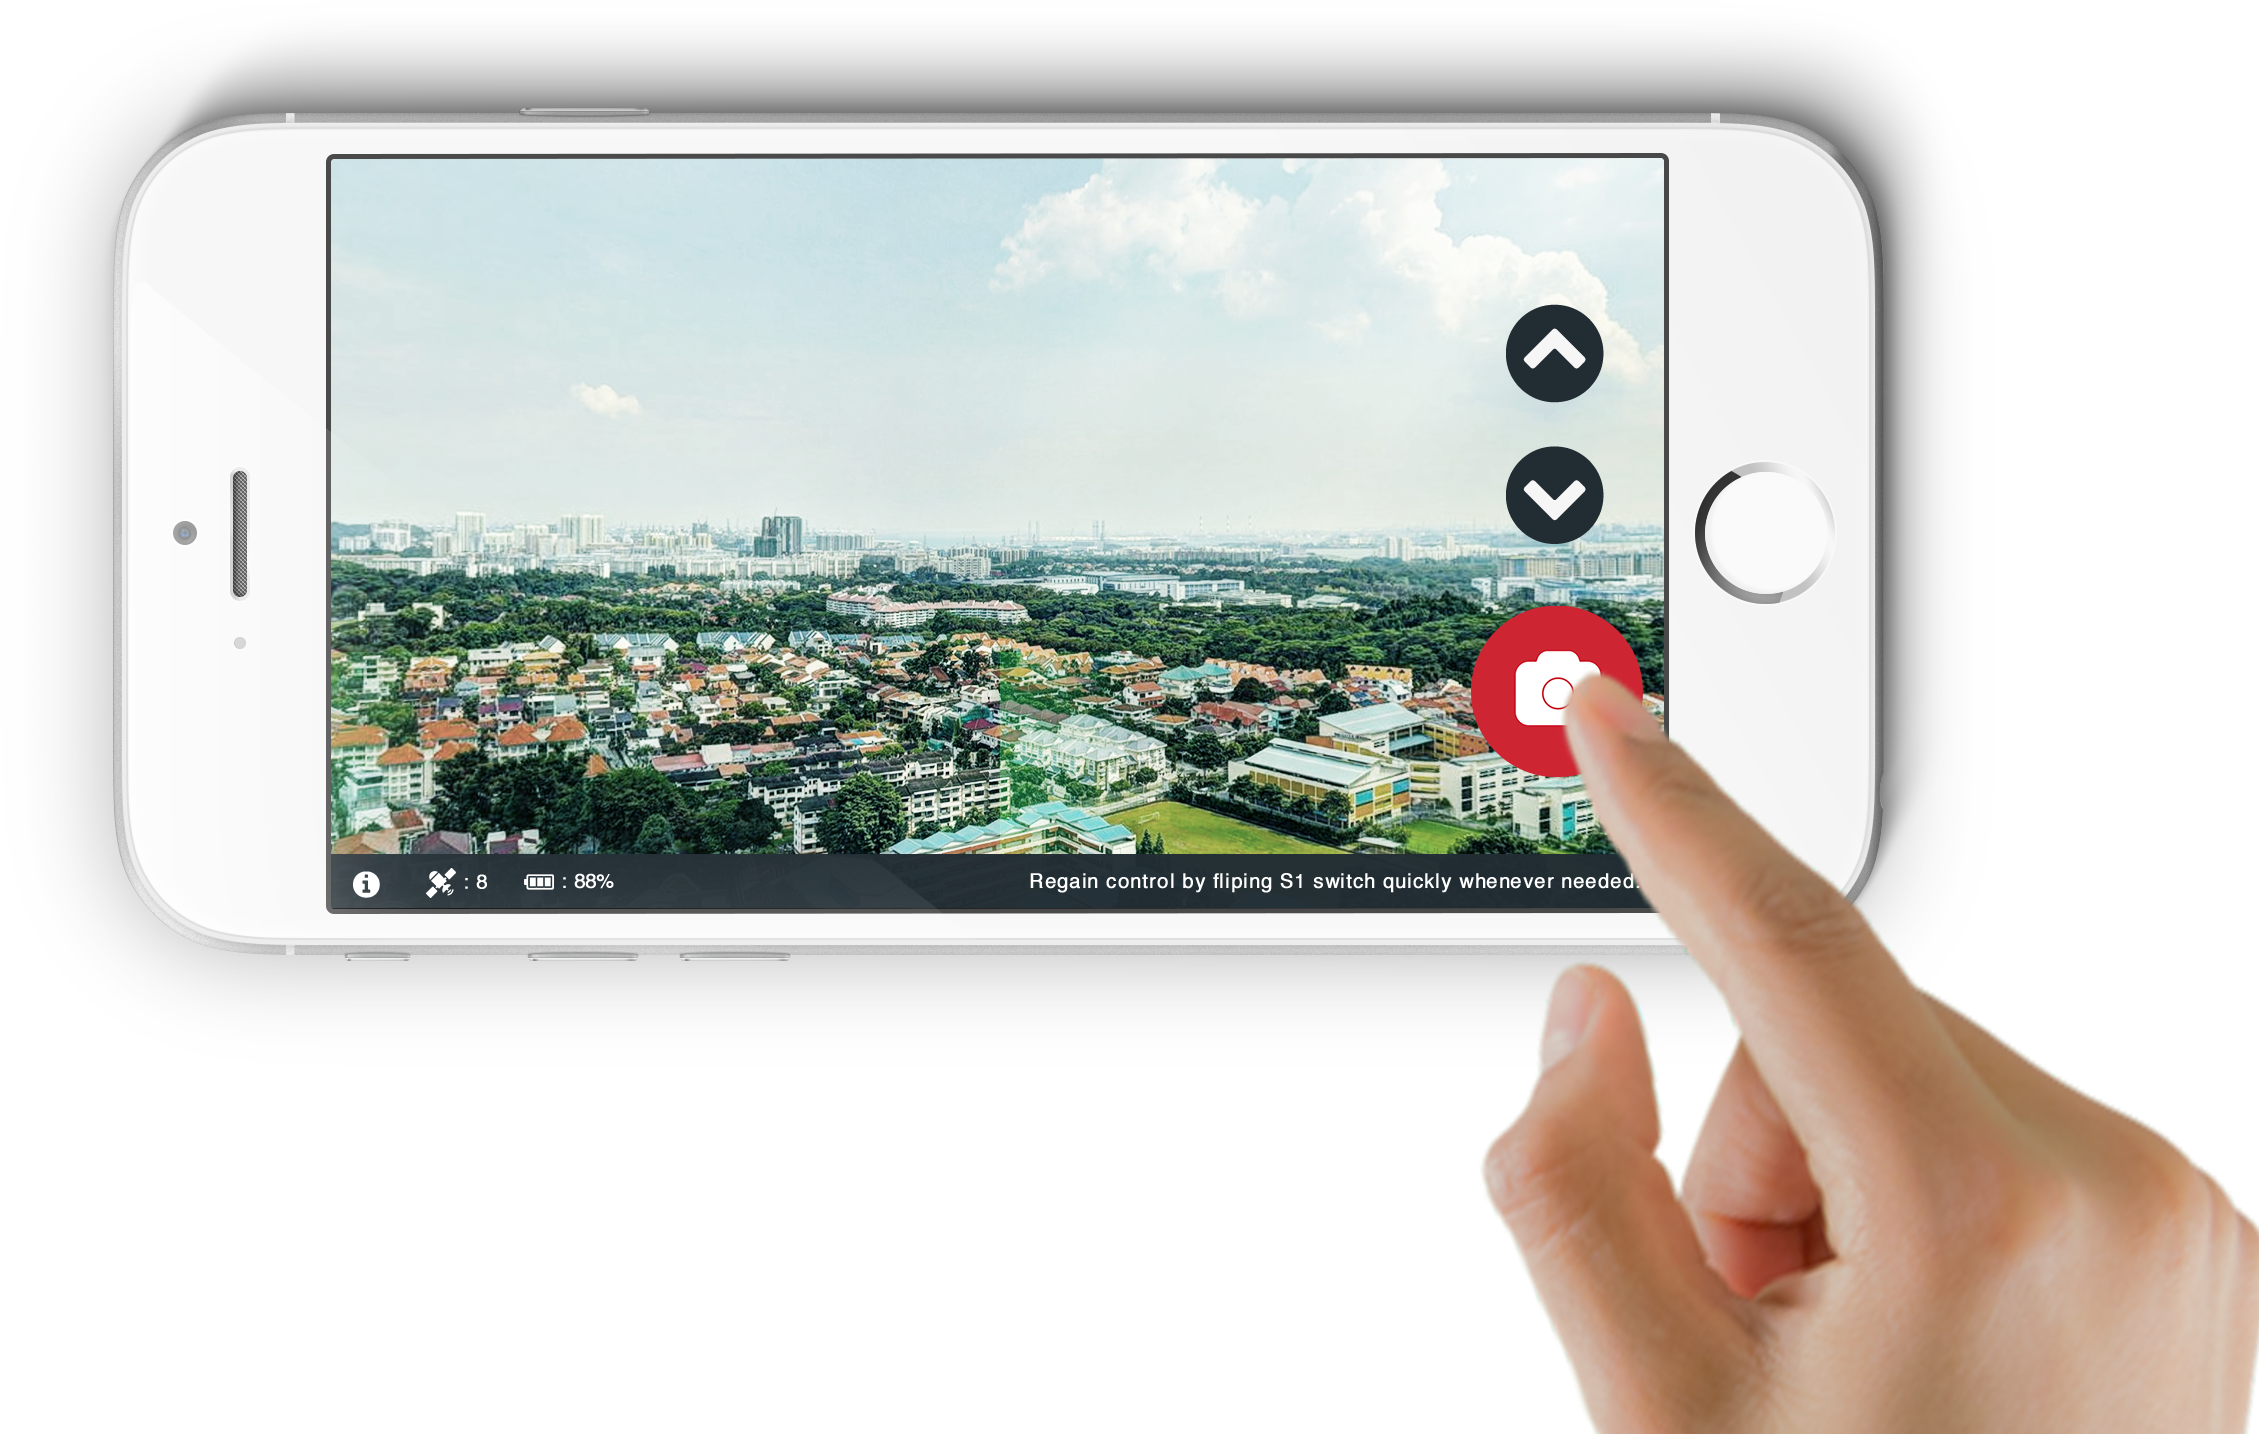
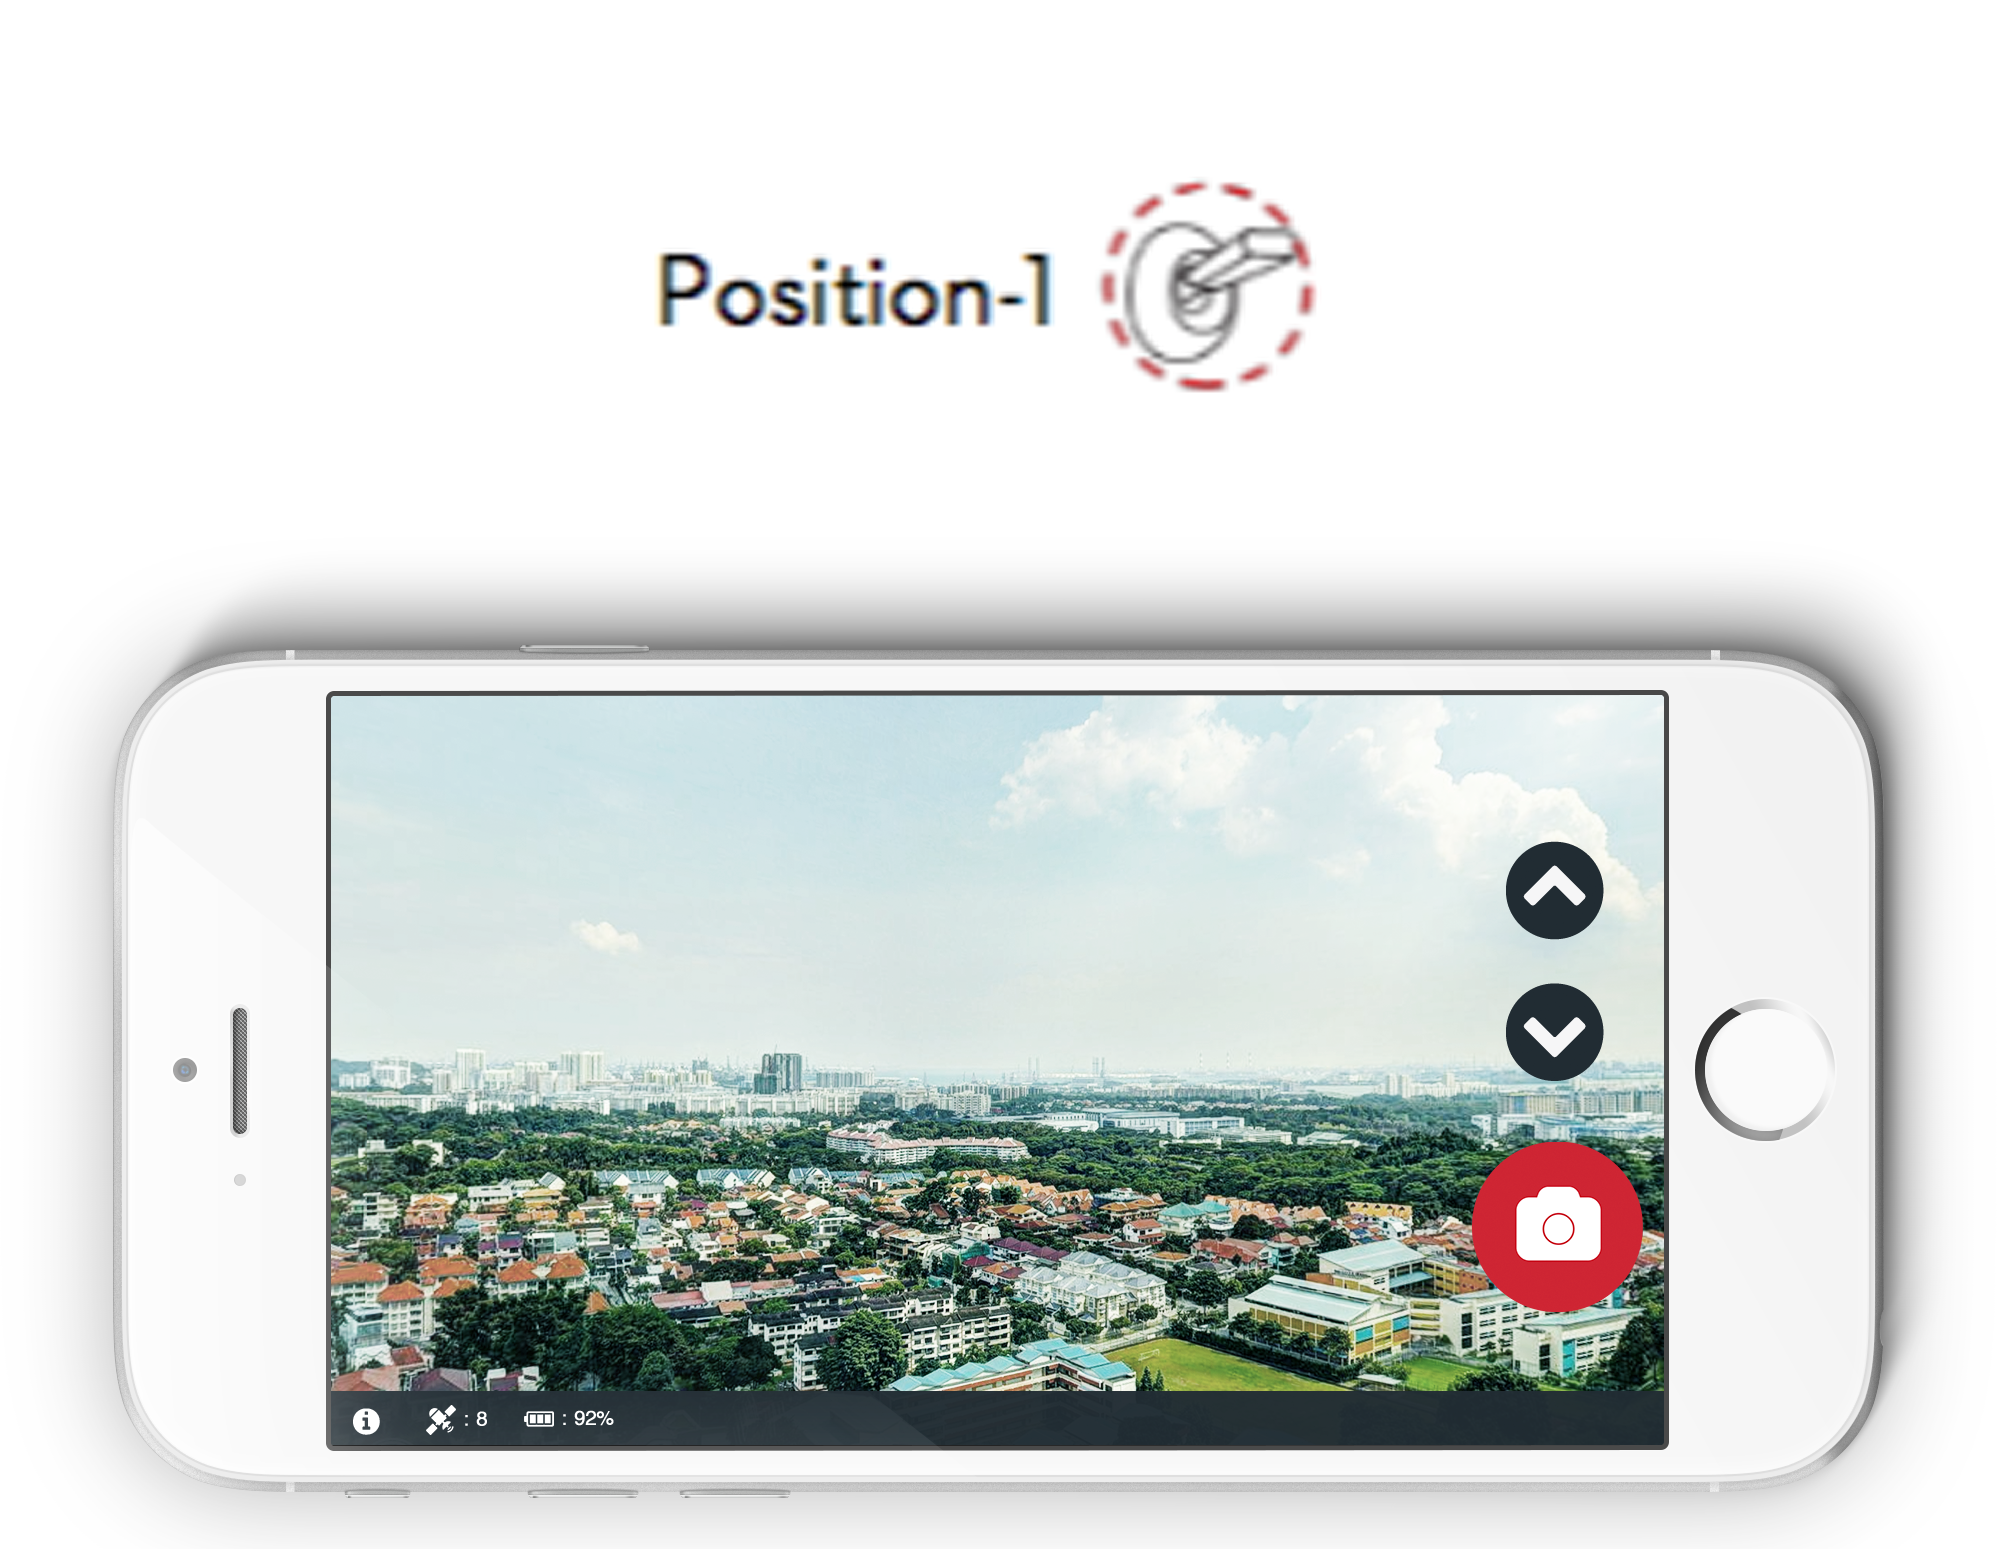
help done

diff --git a/ExVision/CameraView.m b/ExVision/CameraView.m
@@ -14,15 +14,15 @@
 #import "Settings.h"
 #import "GHWalkThroughView.h"
 
-static NSString * const sampleDesc1 = @"Connect your iPhone to the phantom Wi-Fi before opening this app.";
+static NSString * const sampleDesc1 = @"Here are 3 steps to get you started";
 
-static NSString * const sampleDesc2 = @"Fly and hover the phantom to where you want to shoot.";
+static NSString * const sampleDesc2 = @"Connect your iPhone to the Phantom Wi-Fi.";
 
-static NSString * const sampleDesc3 = @"Press the red button to start. Your phantom will hover, then yaw, take photos and generate pano automatically.";
+static NSString * const sampleDesc3 = @"Keep S1 switch in position 1 (upper).\nFly the Phantom to where you want to shoot.";
 
-static NSString * const sampleDesc4 = @"Praesent ornare consectetur elit, in fringilla ipsum blandit sed. Nam elementum, sem sit amet convallis dictum, risus metus faucibus augue, nec consectetur tortor mauris ac purus.";
+static NSString * const sampleDesc4 = @"Press the Start button. Your Phantom will yaw, take photos and generate a panorama automatically.";
 
-static NSString * const sampleDesc5 = @"Your remote controller will not able to control the phantom once pano started. \n\nRegain Control by Flipping S1 switch between Position 1 and 3.\n\nDo this at the end of pano shoot, or anytime you need, like bad weather, low battery, etc.";
+static NSString * const sampleDesc5 = @"Your remote controller will not function once pano has started. So when its finished or if the need arises:\n\nRegain Control by Flipping S1 switch from Position 1 to 3";
 
 
 //120
@@ -35,6 +35,7 @@ static NSString * const sampleDesc5 = @"Your remote controller will not able to 
 @property (nonatomic, strong) GHWalkThroughView* ghView ;
 
 @property (nonatomic, strong) NSArray* descStrings;
+@property (nonatomic, strong) NSArray* titleStrings;
 
 @property (nonatomic, strong) UILabel* welcomeLabel;
 
@@ -59,6 +60,7 @@ static NSString * const sampleDesc5 = @"Your remote controller will not able to 
     welcomeLabel.textAlignment = NSTextAlignmentCenter;
     self.welcomeLabel = welcomeLabel;
     
+    self.titleStrings = @[@"Welcome", @"Connect", @"Fly", @"Pano", @"Caution"];
     self.descStrings = [NSArray arrayWithObjects:sampleDesc1,sampleDesc2, sampleDesc3, sampleDesc4, sampleDesc5, nil];
    
     
@@ -84,7 +86,7 @@ static NSString * const sampleDesc5 = @"Your remote controller will not able to 
 
 - (void) configurePage:(GHWalkThroughPageCell *)cell atIndex:(NSInteger)index
 {
-    cell.title = [NSString stringWithFormat:@"This is page %ld", index+1];
+    cell.title = [self.titleStrings objectAtIndexedSubscript:index];
     cell.titleImage = [UIImage imageNamed:[NSString stringWithFormat:@"page%ld", index+1]];
     cell.desc = [self.descStrings objectAtIndex:index];
 }

diff --git a/ExVision/GHWalkThroughPageCell.m b/ExVision/GHWalkThroughPageCell.m
@@ -58,13 +58,13 @@
     [super layoutSubviews];
     
     CGRect rect1 = self.titleImageView.frame;
-    rect1.origin.x = (self.contentView.frame.size.width - 250);
+    rect1.origin.x = (self.contentView.frame.size.width/2);
     rect1.origin.y = self.frame.size.height - self.titlePositionY - self.imgPositionY - rect1.size.height;
     self.titleImageView.frame = rect1;
 
     [self layoutTitleLabel];
     
-    CGRect descLabelFrame = CGRectMake(20, self.frame.size.height - self.descPositionY, self.contentView.frame.size.width/2, 500);
+    CGRect descLabelFrame = CGRectMake(15, self.frame.size.height - self.descPositionY, (self.contentView.frame.size.width/2)-50, 500);
     self.descLabel.frame = descLabelFrame;
     
 }
@@ -84,7 +84,7 @@
 #pragma clang diagnostic pop
     }
     
-    CGRect titleLabelFrame = CGRectMake(25, self.frame.size.height - self.titlePositionY, self.contentView.frame.size.width - 20, titleHeight);
+    CGRect titleLabelFrame = CGRectMake(20, self.frame.size.height - self.titlePositionY, self.contentView.frame.size.width - 20, titleHeight);
 
     self.titleLabel.frame = titleLabelFrame;
 }
@@ -94,7 +94,7 @@
     self.title = @"Title";
     self.desc = @"Default Description";
     
-    self.imgPositionY    = -300.0f;
+    self.imgPositionY    = (self.contentView.frame.size.height/2)-450.0f;
     self.titlePositionY  = 300.0f;
     self.descPositionY   = 250.0f;
     self.titleFont = [UIFont fontWithName:@"HelveticaNeue-Bold" size:32.0];
@@ -112,8 +112,9 @@
     UIView *pageView = [[UIView alloc] initWithFrame:self.contentView.bounds];
     
     if (self.titleImageView == nil) {
-        UIImageView *titleImageView = self.titleImage != nil ? [[UIImageView alloc] initWithImage:self.titleImage] : [[UIImageView alloc] initWithFrame:CGRectMake(0, 0, 200, 500)];
+        UIImageView *titleImageView = self.titleImage != nil ? [[UIImageView alloc] initWithImage:self.titleImage] : [[UIImageView alloc] initWithFrame:CGRectMake(0, 0, self.contentView.frame.size.width/2, 300)];
         self.titleImageView = titleImageView;
+      //  self.titleImageView.backgroundColor = [UIColor orangeColor];
     }
     [pageView addSubview:self.titleImageView];
     

diff --git a/ExVision/GHWalkThroughView.m b/ExVision/GHWalkThroughView.m
@@ -35,8 +35,7 @@
 
 - (void) setup
 {
-    //52, 153, 220
-    self.backgroundColor = [UIColor colorWithRed:52.00/255.0 green:153.0/255.0 blue:220.0/255.0 alpha:1];
+    self.backgroundColor = [UIColor colorWithRed:33.00/255.0 green:44.0/255.0 blue:51.0/255.0 alpha:1];
     
     _bgFrontLayer = [[UIImageView alloc] initWithFrame:self.frame];
     _bgBackLayer = [[UIImageView alloc] initWithFrame:self.frame];
@@ -244,6 +243,10 @@
     if (self.pageControl.currentPage == 4) {
         [UIView animateWithDuration:0.5 animations:^{
             self.backgroundColor = [UIColor colorWithRed:255.00/255.0 green:0/255.0 blue:0/255.0 alpha:1];
+        } completion:NULL];
+    } else if (self.pageControl.currentPage == 0) {
+        [UIView animateWithDuration:0.5 animations:^{
+            self.backgroundColor = [UIColor colorWithRed:33.00/255.0 green:44.0/255.0 blue:51.0/255.0 alpha:1];
         } completion:NULL];
     } else {
         [UIView animateWithDuration:0.5 animations:^{
